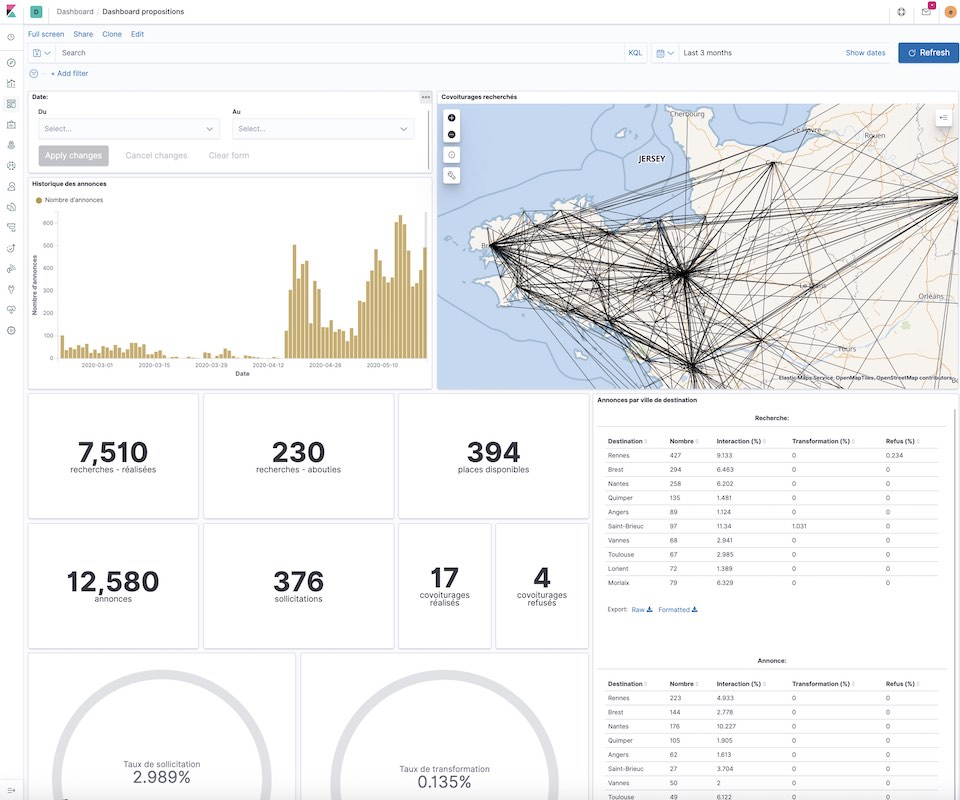
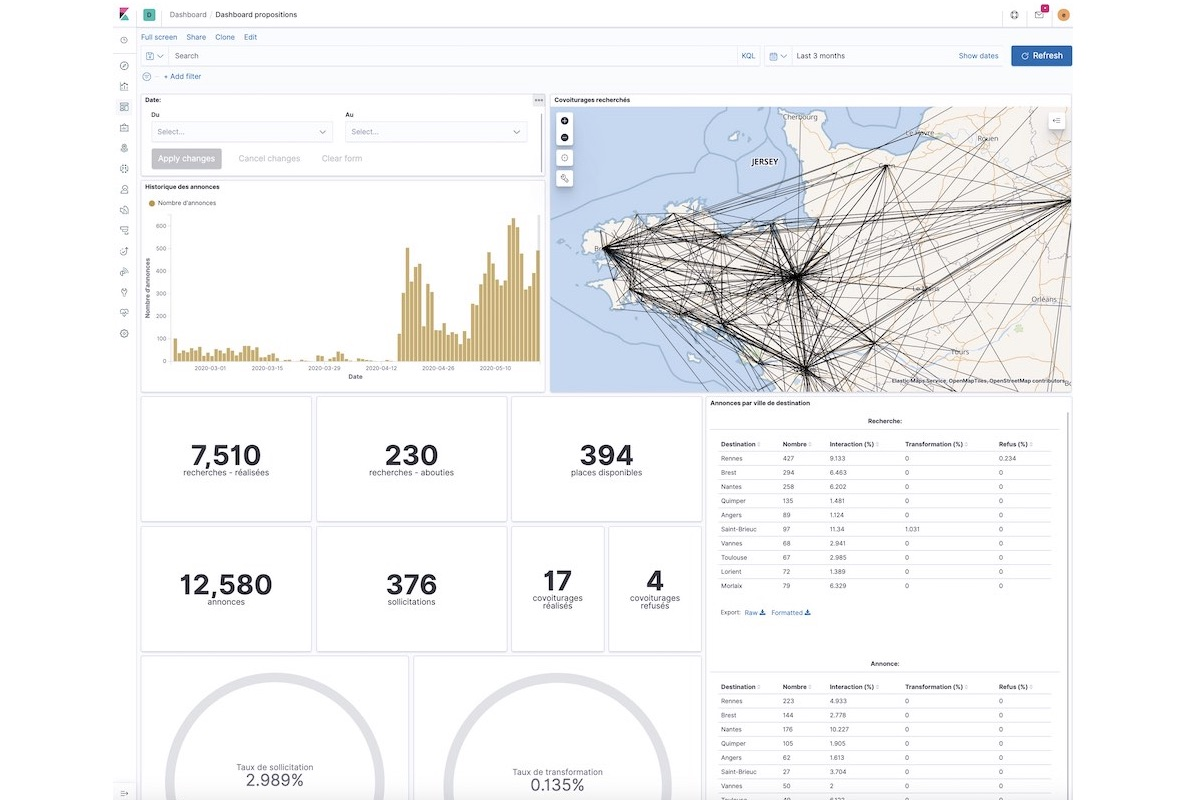
image optimization

diff --git a/components/Projects.js b/components/Projects.js
@@ -1,79 +1,12 @@
 import Project from "./Project";
+import projets from "../content/projects.json";
 
 const Projects = () => (
   <section className="my-8 font-sans container max-w-5xl m-auto flex flex-col ">
     <div className="flex flex-wrap flex-row items-stretch justify-between md:-mt-32" style={{ minHeight: "1px" }}>
-      <Project
-        titre="Pilotage des activités de maintenance"
-        image="Suivi_activites_maintenance_blur_opt.png"
-        alt="Industrial maintenance management screenshot"
-        competences={["NodeJS", "React", "Postgresql", "Docker"]}
-        qui="IMAC est un groupement d'entreprises réalisant la maintenance préventive et corrective sur des équipements industriels à forte technicité.  
-            Ce sont près de 20,000 activités à coordonner chaque année avec un haut niveau d'exigence qualité."
-        quoi="Nous avons réalisé un outil en ligne assurant le suivi collaboratif de tout le cycle de vie d'une activité de maintenance depuis sa préparation, sa planification jusqu'à son archivage."
-      />
-      <Project
-        titre="Un dashboard pour analyser les covoiturages"
-        image="Dashboard_Mobicoop_opt.png"
-        alt="Mobicoop Scope screenshot"
-        competences={["Elasticsearch", "Kibana", "Logstash", "React"]}
-        qui={
-          <span>
-            <a href="https://www.mobicoop.fr">Mobicoop</a> est une plateforme opensource dédiée au co-voiturage. Chaque
-            jour elle connecte des milliers d'utilisateurs désireux d'optimiser leurs déplacements sans payer de
-            commission pour la mise en relation.
-          </span>
-        }
-        quoi="Nous avons développé l'outil décisionnel qui importe les données anonymisées dans un entrepôt ElasticSearch afin de fournir
-          des outils d'analyse pour améliorer le service et développer de nouvelles politiques locales de mobilité."
-      />
-    </div>
-    <div className="flex flex-wrap flex-row items-stretch justify-between" style={{ minHeight: "1px" }}>
-      <Project
-        titre="Un outil SaaS de commercialisation de leads"
-        image="LeadsB2B.png"
-        alt="Lead management screenshot"
-        competences={["NodeJS", "React", "Postgresql", "Docker", "Stripe"]}
-        qui="David exploite plusieurs sites internet à fort trafic sur la Suisse et la Belgique. Il propose aux particuliers 
-        un service de mise en relation avec des entreprises locales pour des prestations d'entretiens, de travaux ou de déménagement."
-        quoi="Nous avons codé un outil SaaS à destination des entreprises pour contacter des clients et leur proposer un devis en ligne. 
-        les entreprises sont informées en temps-réel des nouvelles opportunités par mail et notification push."
-      />
-      <Project
-        titre="Un portail interne de GED et de formation"
-        image="portail.png"
-        alt="Document and training webapp screenshot"
-        competences={["Python", "Django", "React", "Postgresql"]}
-        qui="Christelle dirige le service administratif et ressources humaines d'un grand groupe de distribution automobile.
-        Ses équipes élaborent les procédures, formulaires et reporting pour tous les employés du groupe."
-        quoi="Elle nous a confié la réalisation d'une application web qui facilite l'accès aux fichiers nécessaires selon le profil de chaque employé.
-        L'outil permet également le pilotage des plans de professionnalisation par les managers d'équipes."
-      />
-    </div>
-
-    <div className="flex flex-wrap flex-row items-stretch justify-between" style={{ minHeight: "1px" }}>
-      <Project
-        titre="Un synoptique interactif en VueJS"
-        image="synaeptique.png"
-        imageClic="synaeptique.gif"
-        alt="Requirement management screenshot"
-        competences={["VueJS", "Javascript", "Netlify"]}
-        qui="Luc et Julien ont lancé une start-up proposant une démarche innovante pour élaborer un cahier des charges. 
-        L'objectif est d'offrir une expérience utilisateur qui tranche radicalement avec la rédaction traditionnelle d'un pavé documentaire."
-        quoi="Nous avons codé le synoptique interactif qui présente le graphe des exigences. 
-        Livré sous forme de composant modulaire, l'enjeu était de l'intégrer dans l'outil SaaS en cours de développement en le connectant au backend."
-      />
-      <Project
-        titre="Explorer ses données avec ElasticSearch"
-        image="kibana.png"
-        alt="Kibana screenshot"
-        competences={["Elasticsearch", "Python", "Logstash"]}
-        qui="Carine est responsable du département Marketing d'un grand groupe, qui communique et interagit avec ses clients au travers
-        de plusieurs sites thématiques. Des millions de données étaient produites chaque jour sur les serveurs hébergeant les sites, 
-        mais elles n'étaient pas utilisables."
-        quoi="Nous avons conçu et mis en production un outil d'analyse de l'audience des sites en exploitant les fichiers de logs détaillés.
-        Des tableaux de bords synthétisent les données et mesurent l'impact des campagnes lancées sur les réseaux sociaux."
-      />
+      {projets.map((projet) => (
+        <Project key={projet.titre} {...projet} />
+      ))}
     </div>
   </section>
 );

diff --git a/components/Contact.js b/components/Contact.js
@@ -3,9 +3,9 @@ import HubspotForm from "./HubspotForm";
 const Contact = () => {
   return (
     <section className="my-8 font-sans container max-w-4xl m-auto flex flex-col -mt-32">
-      <div className="container max-w-4xl m-auto flex flex-wrap flex-row items-stretch justify-between">
+      <div className="container max-w-4xl bg-white rounded-lg m-auto flex flex-wrap flex-row items-stretch justify-between">
         <div className="mx-auto md:w-1/2">
-          <div className="bg-white px-8 pt-6 pb-8 mb-4 hubspot-form">
+          <div className="px-8 pt-6 pb-8 mb-4 hubspot-form">
             <HubspotForm
               portalId="8576932"
               formId="7764736a-09d5-43b0-895a-9606b7558696"
@@ -17,7 +17,7 @@ const Contact = () => {
         </div>
 
         <div className="mx-auto md:w-1/2">
-          <div className="bg-white px-8 pt-6 pb-8 mb-4 ">
+          <div className="px-8 pt-6 pb-8 mb-4 ">
             <h2 className="mb-6 font-bold text-xl">Camilab</h2>
             <p className="mb-2">3 rue de Franche Comté</p>
             <p className="mb-6">50100 Cherbourg-En-Cotentin</p>

diff --git a/components/Project.js b/components/Project.js
@@ -4,7 +4,7 @@ const Project = ({ qui, quoi, titre, image, imageClic, alt, competences }) => {
   const [animated, setAnimated] = useState(false);
   const diplayedImage = imageClic && animated ? imageClic : image;
   return (
-    <div className="transition duration-500 ease-in-out md:w-1/2m w-full bg-white rounded-lg border-grey-darker shadow mx-2 my-8 px-4 py-2 hover:transform-scale-subtle flex flex-col justify-between">
+    <div className="transition duration-500 ease-in-out md:w-1/2m w-full bg-white rounded-lg border-gray-500 shadow mx-2 my-8 px-4 py-2 hover:transform-scale-subtle flex flex-col justify-between">
       <img
         className="w-full h-auto"
         style={{ minHeight: "1px" }}
@@ -25,7 +25,7 @@ const Project = ({ qui, quoi, titre, image, imageClic, alt, competences }) => {
         ))}
       </p>
 
-      <div className="font-medium text-grey-darkest text-sm text-justify py-2">
+      <div className="font-medium text-gray-600 text-sm text-justify py-2">
         <p className="mb-1">{qui}</p>
         <p>{quoi}</p>
       </div>

diff --git a/components/Hero.js b/components/Hero.js
@@ -6,7 +6,7 @@ const Hero = () => (
 
     <div className=" flex flex-row items-center flex-wrap mt-4">
       <div className="w-full py-12 w-full md:w-1/2">
-        <h1 className="my-4 font-bold text-5xl text-center text-gray-500">
+        <h1 className="my-4 font-bold text-5xl text-center text-gray-600">
           Nous fabriquons les
           <span className="text-black"> logiciels</span> de votre entreprise.
         </h1>

diff --git a/tailwind.config.js b/tailwind.config.js
@@ -1,7 +1,7 @@
 module.exports = {
   future: {
-    // removeDeprecatedGapUtilities: true,
-    // purgeLayersByDefault: true,
+    removeDeprecatedGapUtilities: true,
+    purgeLayersByDefault: true,
   },
   purge: [],
   theme: {
